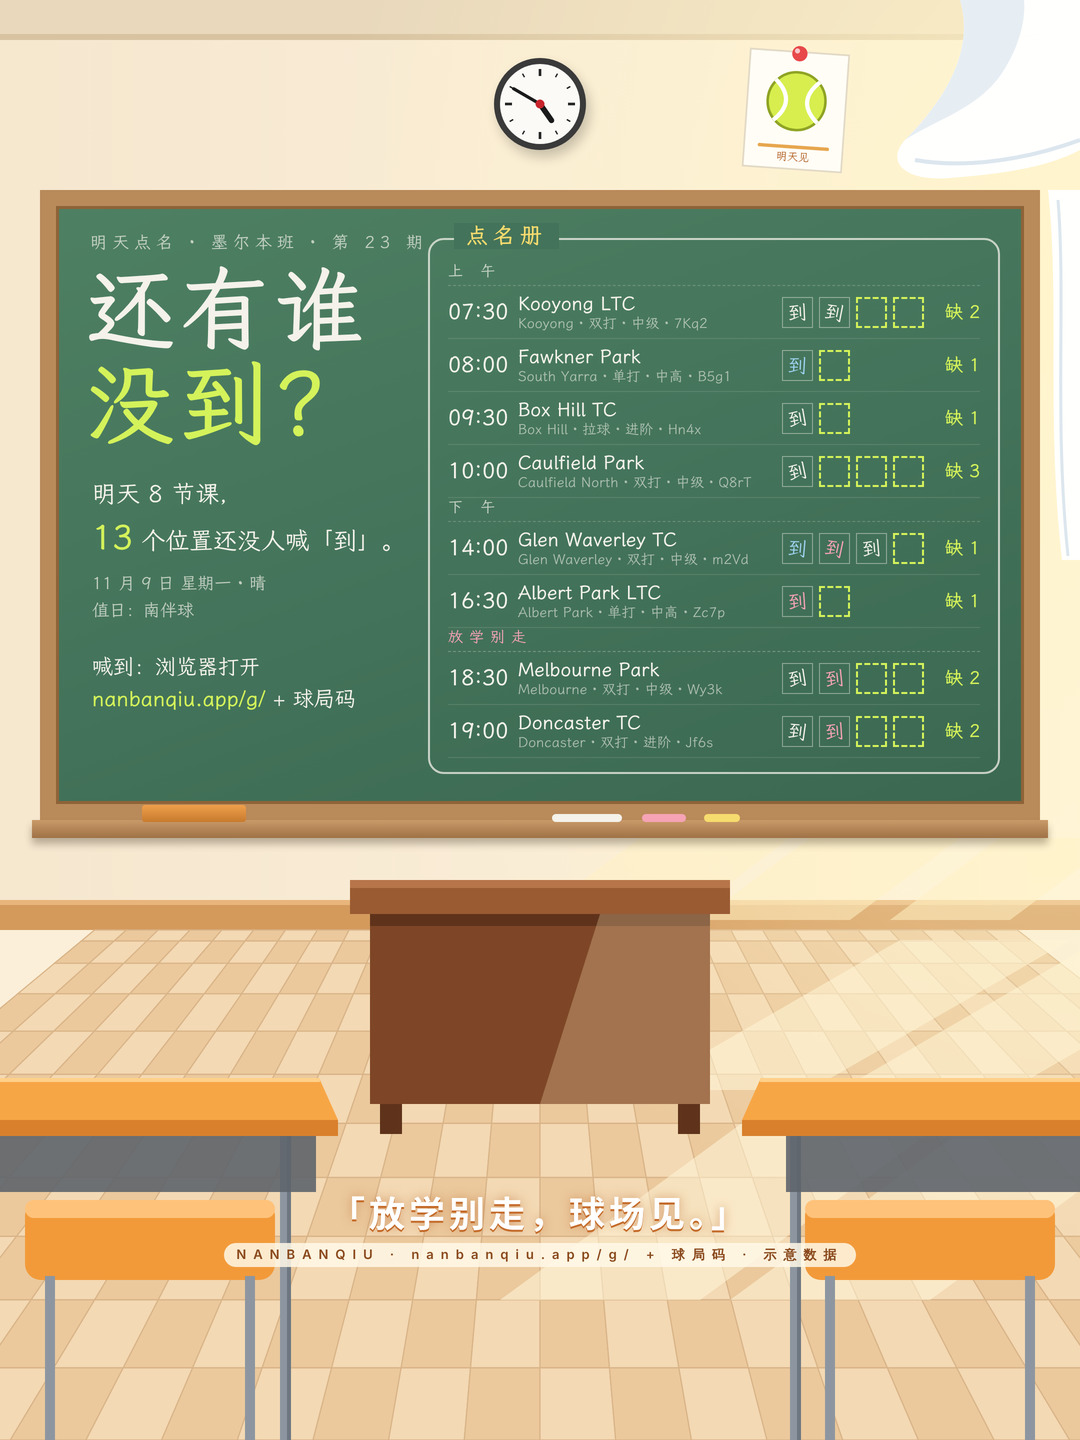
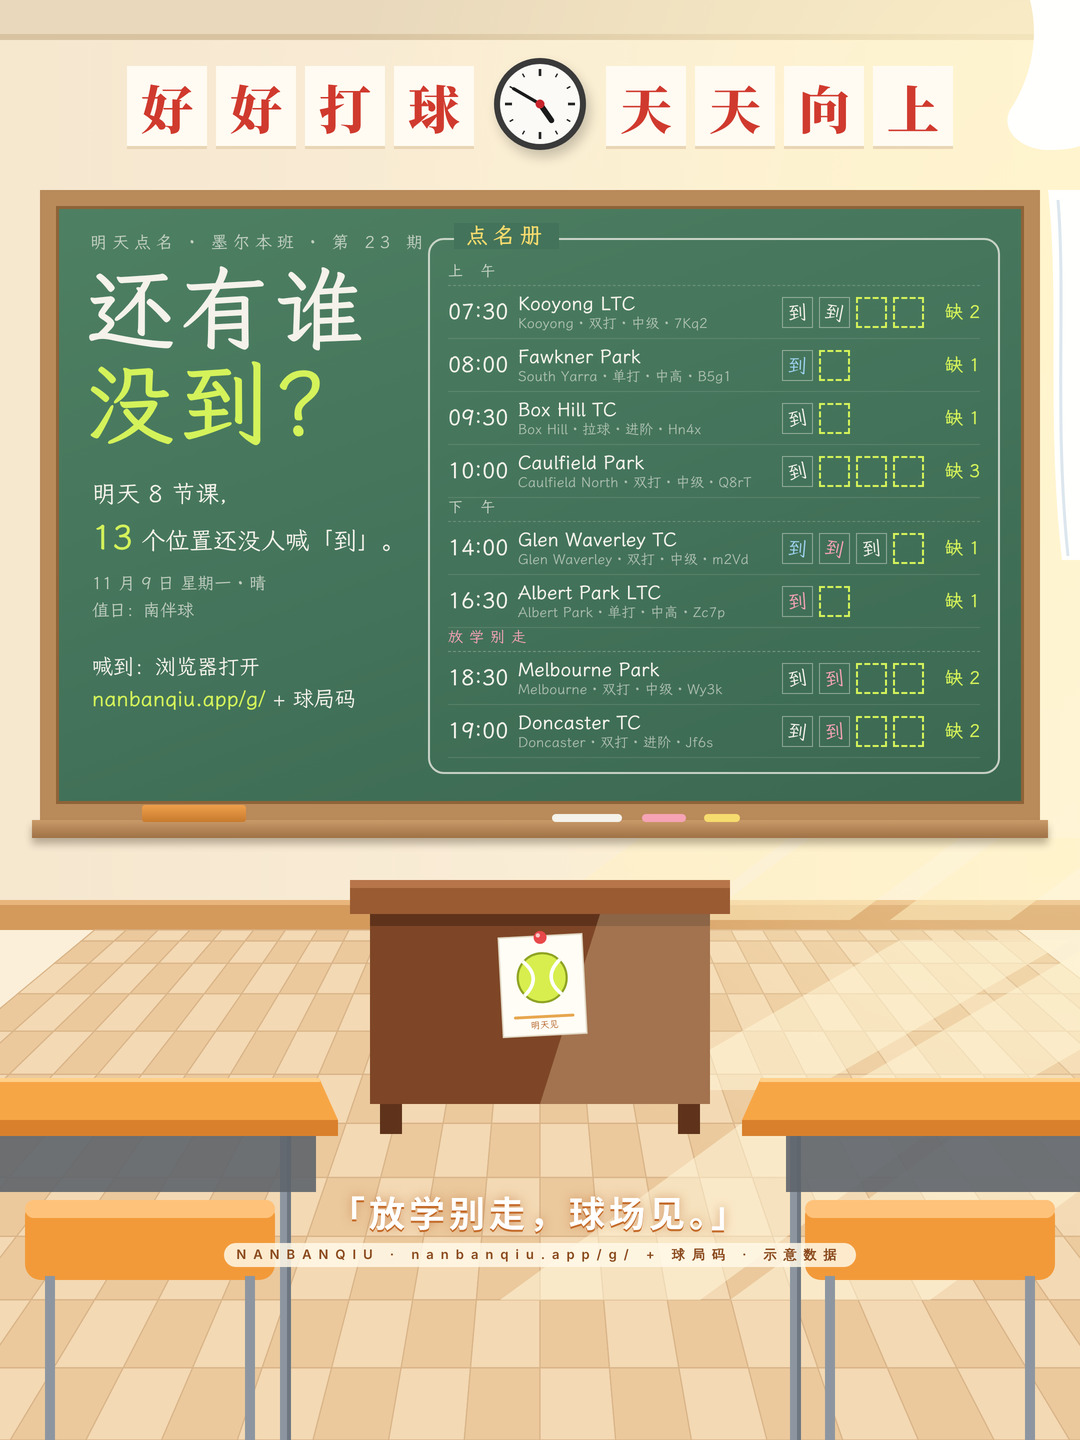
动画版补回「好好打球 天天向上」标语；网球涂鸦挪到讲台正面
出图检查通过（窗帘收窄，不再压住「上」字）。

Claude-Session: https://claude.ai/code/session_014vi3eYkzAwaNbsywDq4bQj

Changed region(s): [[0.55, 0.0, 1.0, 0.125], [0.0917, 0.0312, 0.4583, 0.125], [0.4583, 0.625, 0.55, 0.7188]]

diff --git a/marketing/digest/anime.py b/marketing/digest/anime.py
@@ -34,14 +34,14 @@ def desk(x, y, w, flip=1):
 
 def curtain():
     # 只在右上角飘起，下摆落在黑板右侧外面（不进黑板）
-    return '''<g class="art"><path d="M1080 0 L960 0 C 975 50, 945 100, 905 140 C 885 162, 905 182, 950 178 C 1000 174, 1046 168, 1080 150 Z" fill="#FFFFFF" opacity=".97"/>
-<path d="M960 0 C 975 50, 945 100, 905 140 C 935 120, 975 110, 1000 76 C 1018 50, 1026 22, 1024 0Z" fill="#E7EEF3"/>
-<path d="M915 160 C 960 168, 1020 162, 1080 140" stroke="#DCE6EE" stroke-width="4" fill="none"/></g>
+    return '''<g class="art"><path d="M1080 0 L1030 0 C 1040 40, 1030 80, 1010 110 C 1000 130, 1020 150, 1050 150 C 1066 150, 1074 148, 1080 146 Z" fill="#FFFFFF" opacity=".97"/>
+
+</g>
 <g class="art"><path d="M1048 190 C 1060 300, 1046 420, 1062 560 L1080 560 L1080 190Z" fill="#FFFFFF" opacity=".95"/><path d="M1058 200 C 1066 300, 1054 420, 1068 556" stroke="#DCE6EE" stroke-width="3" fill="none"/></g>'''
 
 def doodle():
     # 黑板右上角磁铁贴着的一张涂鸦：网球 + 一行字
-    return f'''<g class="art" transform="translate(800 52) rotate(4) scale(.85)"><rect x="-58" y="0" width="116" height="138" fill="#FFFDF6" stroke="#E2D9C6" stroke-width="2"/>
+    return f'''<g class="art" transform="translate(540 936) rotate(-3) scale(.72)"><rect x="-58" y="0" width="116" height="138" fill="#FFFDF6" stroke="#E2D9C6" stroke-width="2"/>
 <circle cx="0" cy="58" r="34" fill="#D7EE4E" stroke="#8FA324" stroke-width="3"/><path d="M-26 34 C -8 50, -8 66, -26 82 M26 34 C 8 50, 8 66, 26 82" stroke="#fff" stroke-width="5" fill="none"/>
 <path d="M-40 112 h80" stroke="#E7A64E" stroke-width="4" stroke-linecap="round"/><text x="0" y="128" text-anchor="middle" font-family="{WK}" font-size="13" fill="#B4642A">明天见</text>
 <circle cx="0" cy="2" r="9" fill="#E8484A"/><circle cx="-3" cy="-1" r="3" fill="#fff" opacity=".7"/></g>'''
@@ -62,6 +62,8 @@ body{{width:{W}px;height:{H}px;overflow:hidden;position:relative;font-family:{WK
 .board .tab{{background:#43735A}}
 .tray{{left:-24px;right:-24px;bottom:-34px;height:18px;background:linear-gradient(180deg,#C99A69,#9F7246)}}
 .tray u{{background:linear-gradient(180deg,#F0A04B,#C77A2E)!important}}
+.slog{{position:absolute;top:66px;display:flex;gap:9px}} .slog.l{{right:606px}} .slog.r{{left:606px}}
+.slog i{{font-style:normal;width:80px;height:80px;display:flex;align-items:center;justify-content:center;font-family:{SERIF};font-weight:900;font-size:52px;color:#D03A2E;background:#FFFBF2;box-shadow:0 3px 0 #E8D5B5}}
 .subt{{position:absolute;left:0;right:0;top:1186px;text-align:center;font-family:{SANS};font-weight:700;font-size:36px;letter-spacing:4px;color:#fff;text-shadow:0 2px 0 #C46B2A,0 0 10px rgba(180,90,30,.5)}}
 .cred{{position:absolute;left:0;right:0;top:1246px;text-align:center;font-family:{NUM};font-size:13px;letter-spacing:7px;color:#8A4A1E}}
 .cred b{{background:rgba(255,248,232,.85);padding:4px 12px;border-radius:12px;font-weight:600}}
@@ -74,10 +76,11 @@ body{{width:{W}px;height:{H}px;overflow:hidden;position:relative;font-family:{WK
 <rect width="{W}" height="{H}" fill="url(#glow)"/>
 {cinema.clock_svg(540, 104, 40)}
 </svg>
+<div class="slog l">{"".join(f"<i>{c}</i>" for c in "好好打球")}</div><div class="slog r">{"".join(f"<i>{c}</i>" for c in "天天向上")}</div>
 <div class="bwrap"><div class="board">{cinema.board_inner()}</div></div>
-<svg class="L" width="{W}" height="{H}"><defs>{lib.COMMON}</defs>{doodle()}
+<svg class="L" width="{W}" height="{H}"><defs>{lib.COMMON}</defs>
 <g><rect x="350" y="880" width="380" height="34" fill="#9A5B33"/><rect x="350" y="880" width="380" height="8" fill="#B8754A"/><rect x="370" y="914" width="340" height="190" fill="#7E4626"/><rect x="370" y="914" width="340" height="12" fill="#5F331B"/>
 <path d="M600 914 L710 914 L710 1104 L540 1104Z" fill="#FFE9B8" opacity=".28"/><rect x="380" y="1104" width="22" height="30" fill="#5F331B"/><rect x="678" y="1104" width="22" height="30" fill="#5F331B"/></g>
-{desk(-60, 1080, 380, 1)}{desk(760, 1080, 380, -1)}{curtain()}</svg>
+{doodle()}{desk(-60, 1080, 380, 1)}{desk(760, 1080, 380, -1)}{curtain()}</svg>
 <div class="subt">「放学别走，球场见。」</div>
 <div class="cred"><b>NANBANQIU · {SITE}/g/ + 球局码 · 示意数据</b></div></body>'''

diff --git a/marketing/digest/README.md b/marketing/digest/README.md
@@ -7,7 +7,7 @@
 | `timetable.py` | 明日时刻表，**HTML/CSS 排版**（换行、截断、对齐交给浏览器），`dark` / `light` 两套主题 |
 | `chalk.py` | **时刻表「黑板」版**：「明天，有体育课。」——球局表写成黑板上的课程表（第一节…、午休、晚自习），右上角老师写的日期天气和「值日：南伴球」；空位是黄绿粉笔圈、已有人是涂满的白圈；粉笔颗粒用 SVG 滤镜，黑板有擦痕和上节课残影（15·30·40、Deuce），底部金属粉笔槽。字体霞鹜文楷（OFL），`DIGEST_FONTS` 指向 lxgw-wenkai-webfont 解压目录 |
 | **模板系统** | 黑板报 = **皮肤（每周一换）× 创意（每天轮换）**。皮肤在 `chalkframe.SKINS`：赶集 fair · 春日 meadow · 夜场 night · 花园 garden · 线描 doodle · 国风 guofeng，各自定板色、边框、顶部 / 底部 / 两侧装饰、标题字效（排线 / 多色 / 霓虹 / 空心 / 朱红金边）、信息框样式；装饰只放顶部、底部、四角和边框内侧，标 `class="art"`。创意在 `chalk4.py`：roll / notes / seats。`chalkframe.pick(日期)` → (皮肤, 创意)：皮肤按 ISO 周轮换，创意按星期。出图写法 `chalk4:创意@皮肤`，如 `chalk4:notes@night` |
-| `anime.py` | **「动画」版**：日系动画背景画风的午后教室——平涂暖色、黑板（点名册同 cinema）、讲台、橙色课桌椅、一点透视米色地砖、窗格阳光只落在地面和讲台、右上角被风吹起的白窗帘、墙上图钉钉着一张网球涂鸦「明天见」 |
+| `anime.py` | **「动画」版**：日系动画背景画风的午后教室——平涂暖色、黑板（点名册同 cinema）、讲台、橙色课桌椅、一点透视米色地砖、窗格阳光只落在地面和讲台、右上角被风吹起的白窗帘、黑板上方「好好打球 天天向上」+ 挂钟，讲台正面图钉钉着一张网球涂鸦「明天见」 |
 | `cinema.py` | **「电影镜头」版（按所有者给的教室参考）**：标语 + 挂钟（4:50）；粗实木框黑板（线脚、木粉笔槽、擦痕、粉笔灰）；竖条木墙裙，挂钩上一个书包露出拍头；一束很淡、虚边的窗光斜扫过墙；画面底部是清晰的木课桌桌面。字幕「放学别走，球场见。」 |
 | **教室墙场景**（`+wall`） | 黑板缩到 0.86 倍挂在教室墙中间（0.86：最小 14 号字缩放后仍 ≥ 12 号，Chromium 中文最小字号会把更小的字撑大而压行）。上方红字标语卡片 + 挂钟（指针 = 明天第一局时间），下方仿「轻声细语是一种素养」的彩色墙贴 + 书架。标语 / 墙贴每周轮换（`SLOGANS` 13 句、`STICKERS` 5 组，见 `样稿/教室墙-标语库.jpg`；卡片按字数自动缩放、以挂钟为中心对称），`+wall0` 等可指定第几句。例：`chalk4:roll@fair+wall0` |
 | `chalkframe.py` · `chalk4.py` | **立式小黑板三版（最新推荐）**，共用挂板底子（原木框、彩旗、粉笔槽）：`chalk4:roll`「还有谁没到？」点名册（「到」字笔迹各不相同、举手、晚场叫「放学别走」）· `chalk4:notes`「传纸条。」（磁铁吸在黑板上的真纸条：去吗？□去 □当然去）· `chalk4:seats`「这里有人吗？」（讲台 + 座位表，有人的桌上放着书包，空座是黄绿虚线） |
